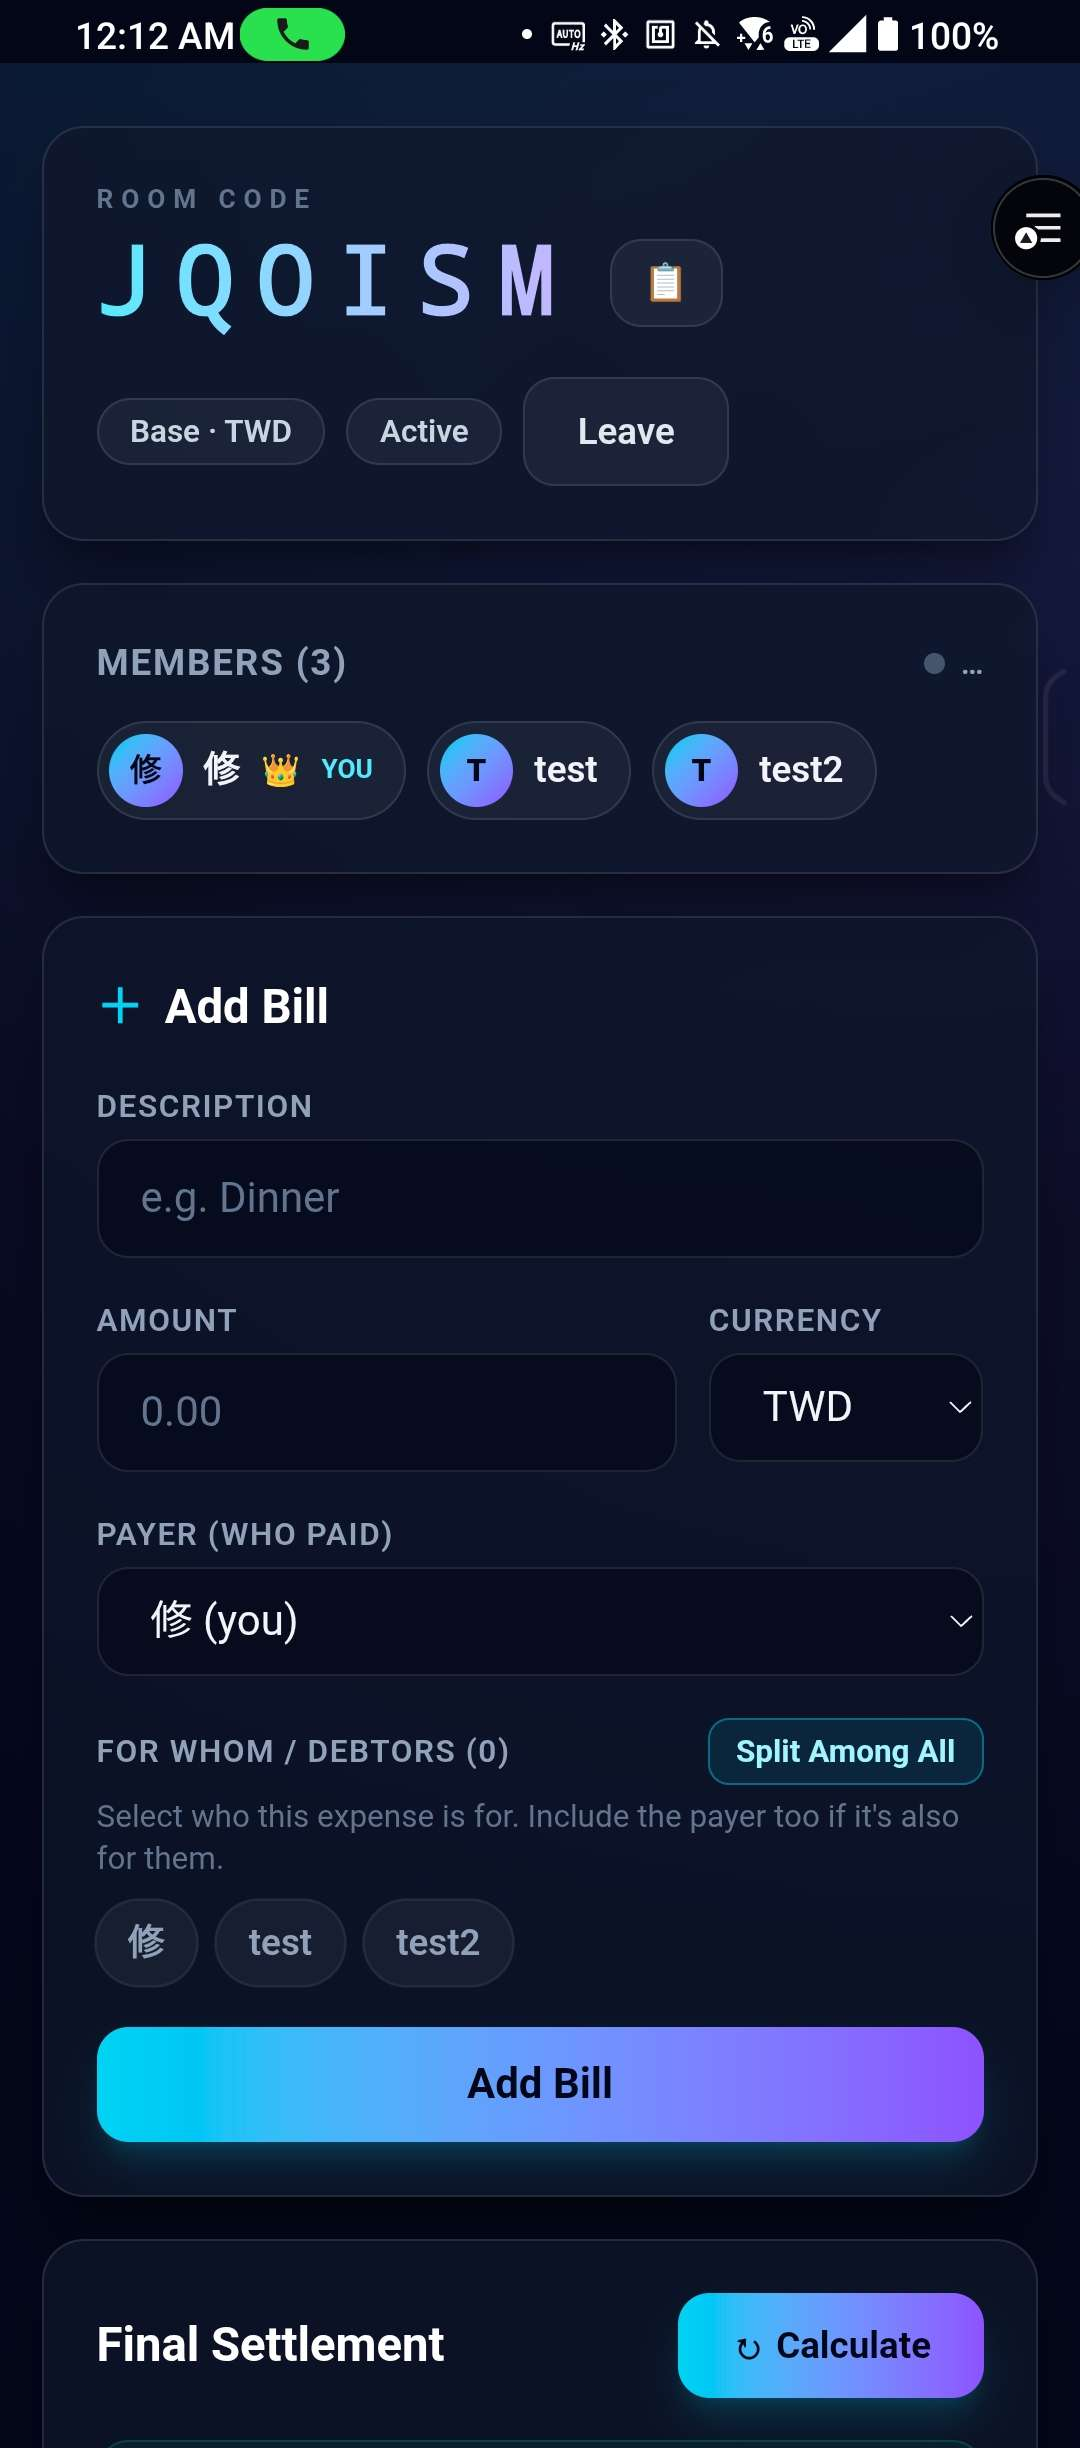
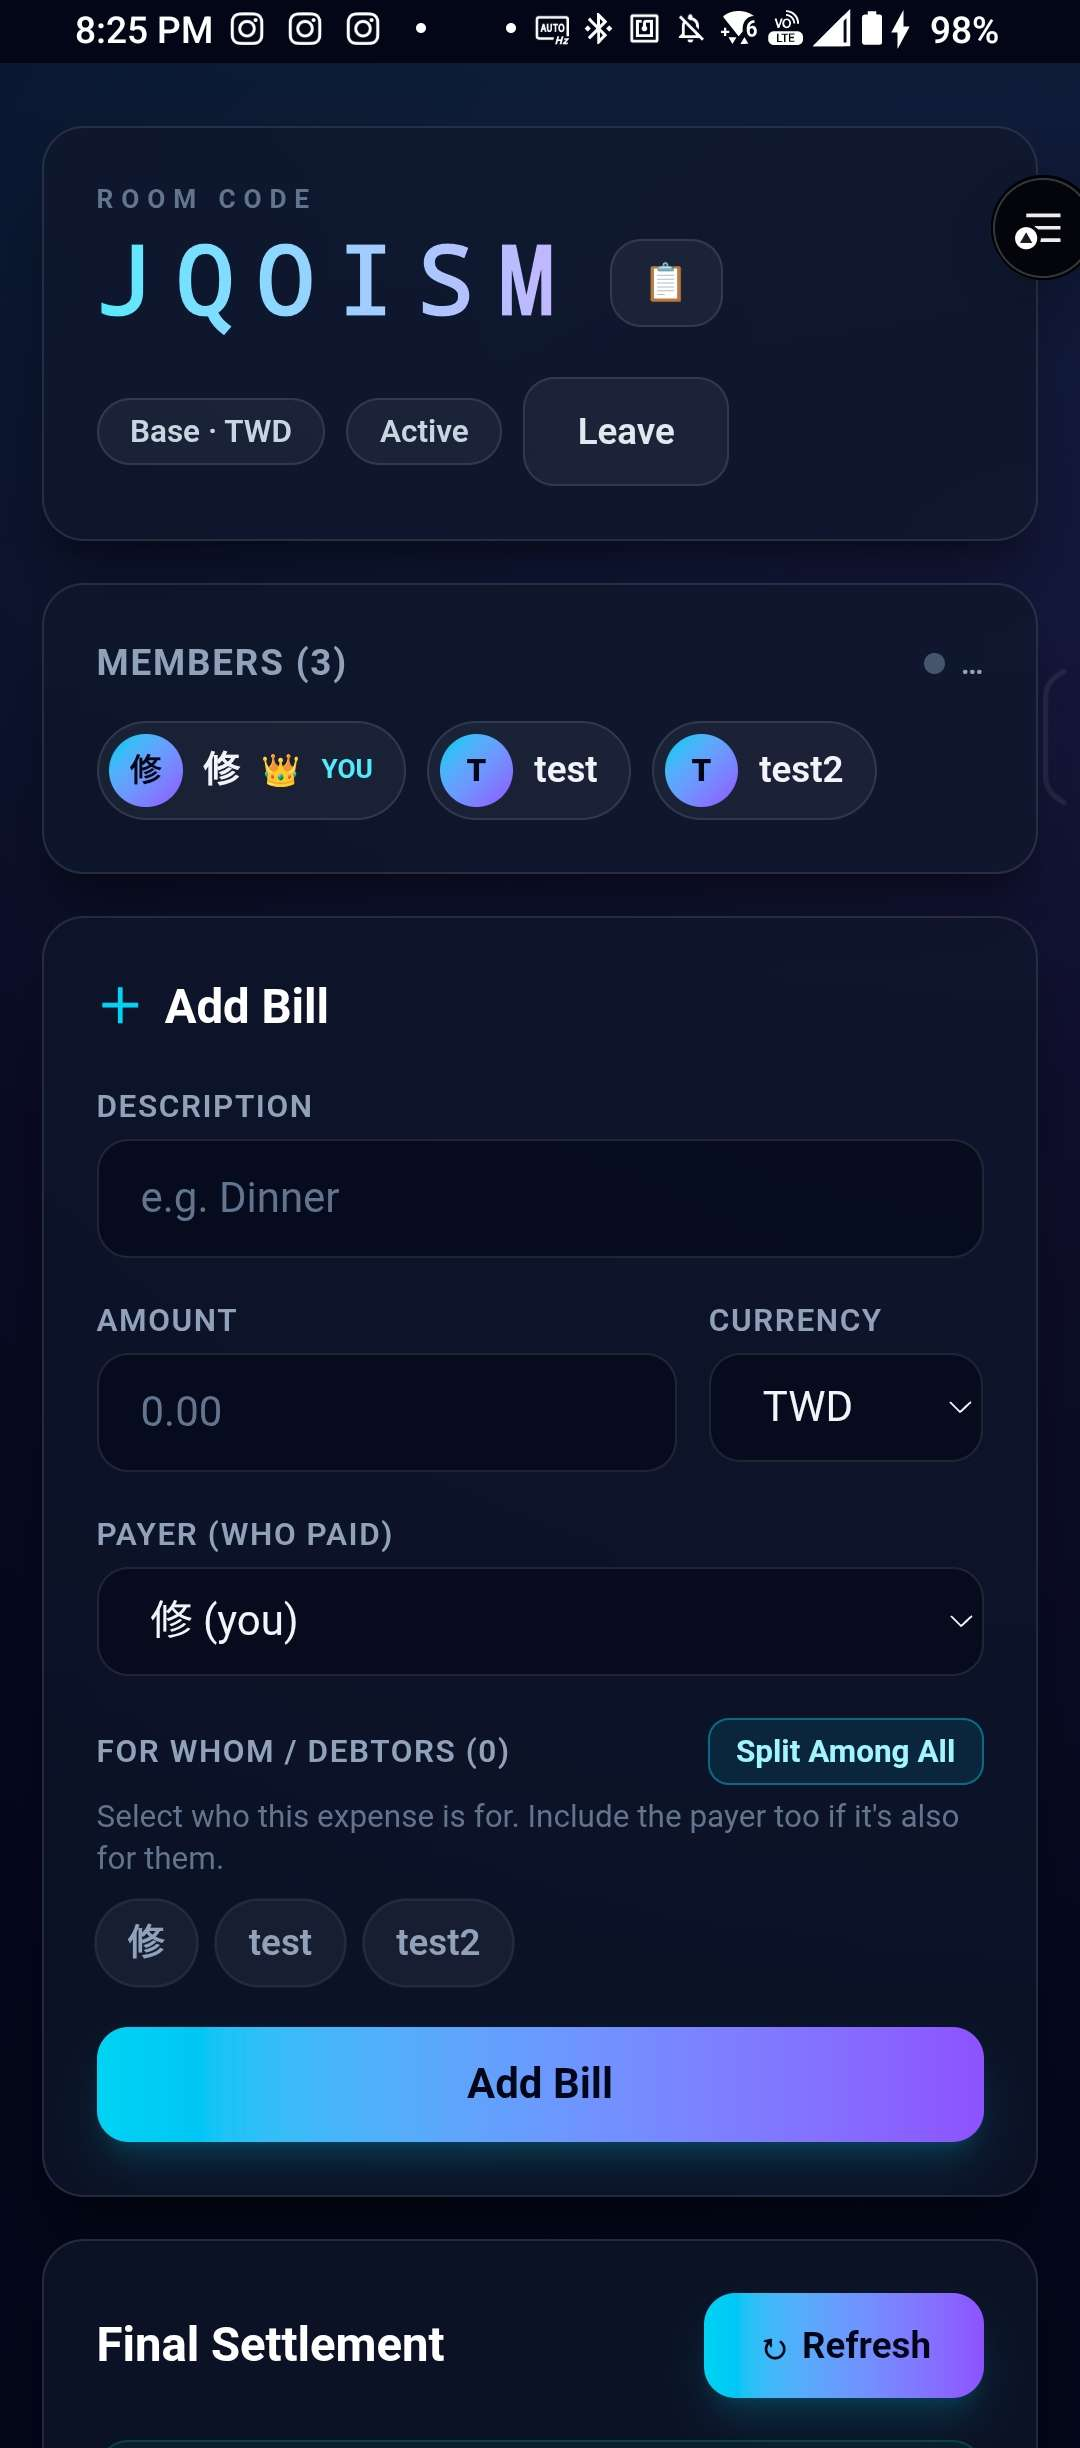
Update readme and add gif demo

Changed region(s): [[0.4889, 0.0, 0.9167, 0.031], [0.6111, 0.9314, 0.8556, 0.9935], [0.0611, 0.0, 0.3667, 0.031]]

diff --git a/README.md b/README.md
@@ -20,12 +20,12 @@ header-token identity model instead of accounts, the two-party confirmation befo
 disappears, and storing both the original and converted amounts so a later exchange-rate move
 can't silently rewrite what someone owes.
 
-## Screenshots
+## Demo
 
-**Real-time sync across devices** — two browsers in the same room; a bill added in one appears
-instantly in the other.
+**Real-time sync across devices** — two browsers in the same room. A bill added on one side shows
+up on the other instantly, and the settlement plan updates along with it.
 
-![Two browser windows in the same room, staying in sync](pic/desktop-realtime.png)
+![Screen recording: a bill added in the left browser appears instantly in the right one, with the settlement plan updating](pic/desktop-realtime.gif)
 
 | Room & bill entry | Settlement & activity feed |
 | :---: | :---: |
@@ -44,8 +44,8 @@ instantly in the other.
   currencies (JPY, USD, …); the original amount and the converted base amount are both stored so
   later exchange-rate drift doesn't affect settlement.
 - **Debt simplification** — A greedy heap-based algorithm minimizes the number of transactions
-  (e.g. *A owes B 100, B owes C 100* → *A pays C 100*). The plan re-derives itself automatically
-  whenever the ledger changes, so every device shows the same numbers without anyone refreshing.
+  (e.g. *A owes B 100, B owes C 100* → *A pays C 100*). The plan updates automatically as bills
+  change.
 - **Realtime sync + action log** — Powered by Supabase Realtime. All members see live updates and
   a running activity feed ("Ming added Dinner $500", "Hua confirmed Ming's repayment").
 - **PWA** — Installable on mobile via `vite-plugin-pwa`.
@@ -177,7 +177,3 @@ needs more than n−1 transfers, and is optimal for the shapes that actually occ
   the member-scoped read policies work over Realtime too (see the trade-off above).
 - **Exchange-rate caching.** Rates are fetched per bill submission; a short-lived cache would cut
   latency and make bill entry work offline-ish.
-
-## License
-
-Private project — not currently licensed for distribution.
